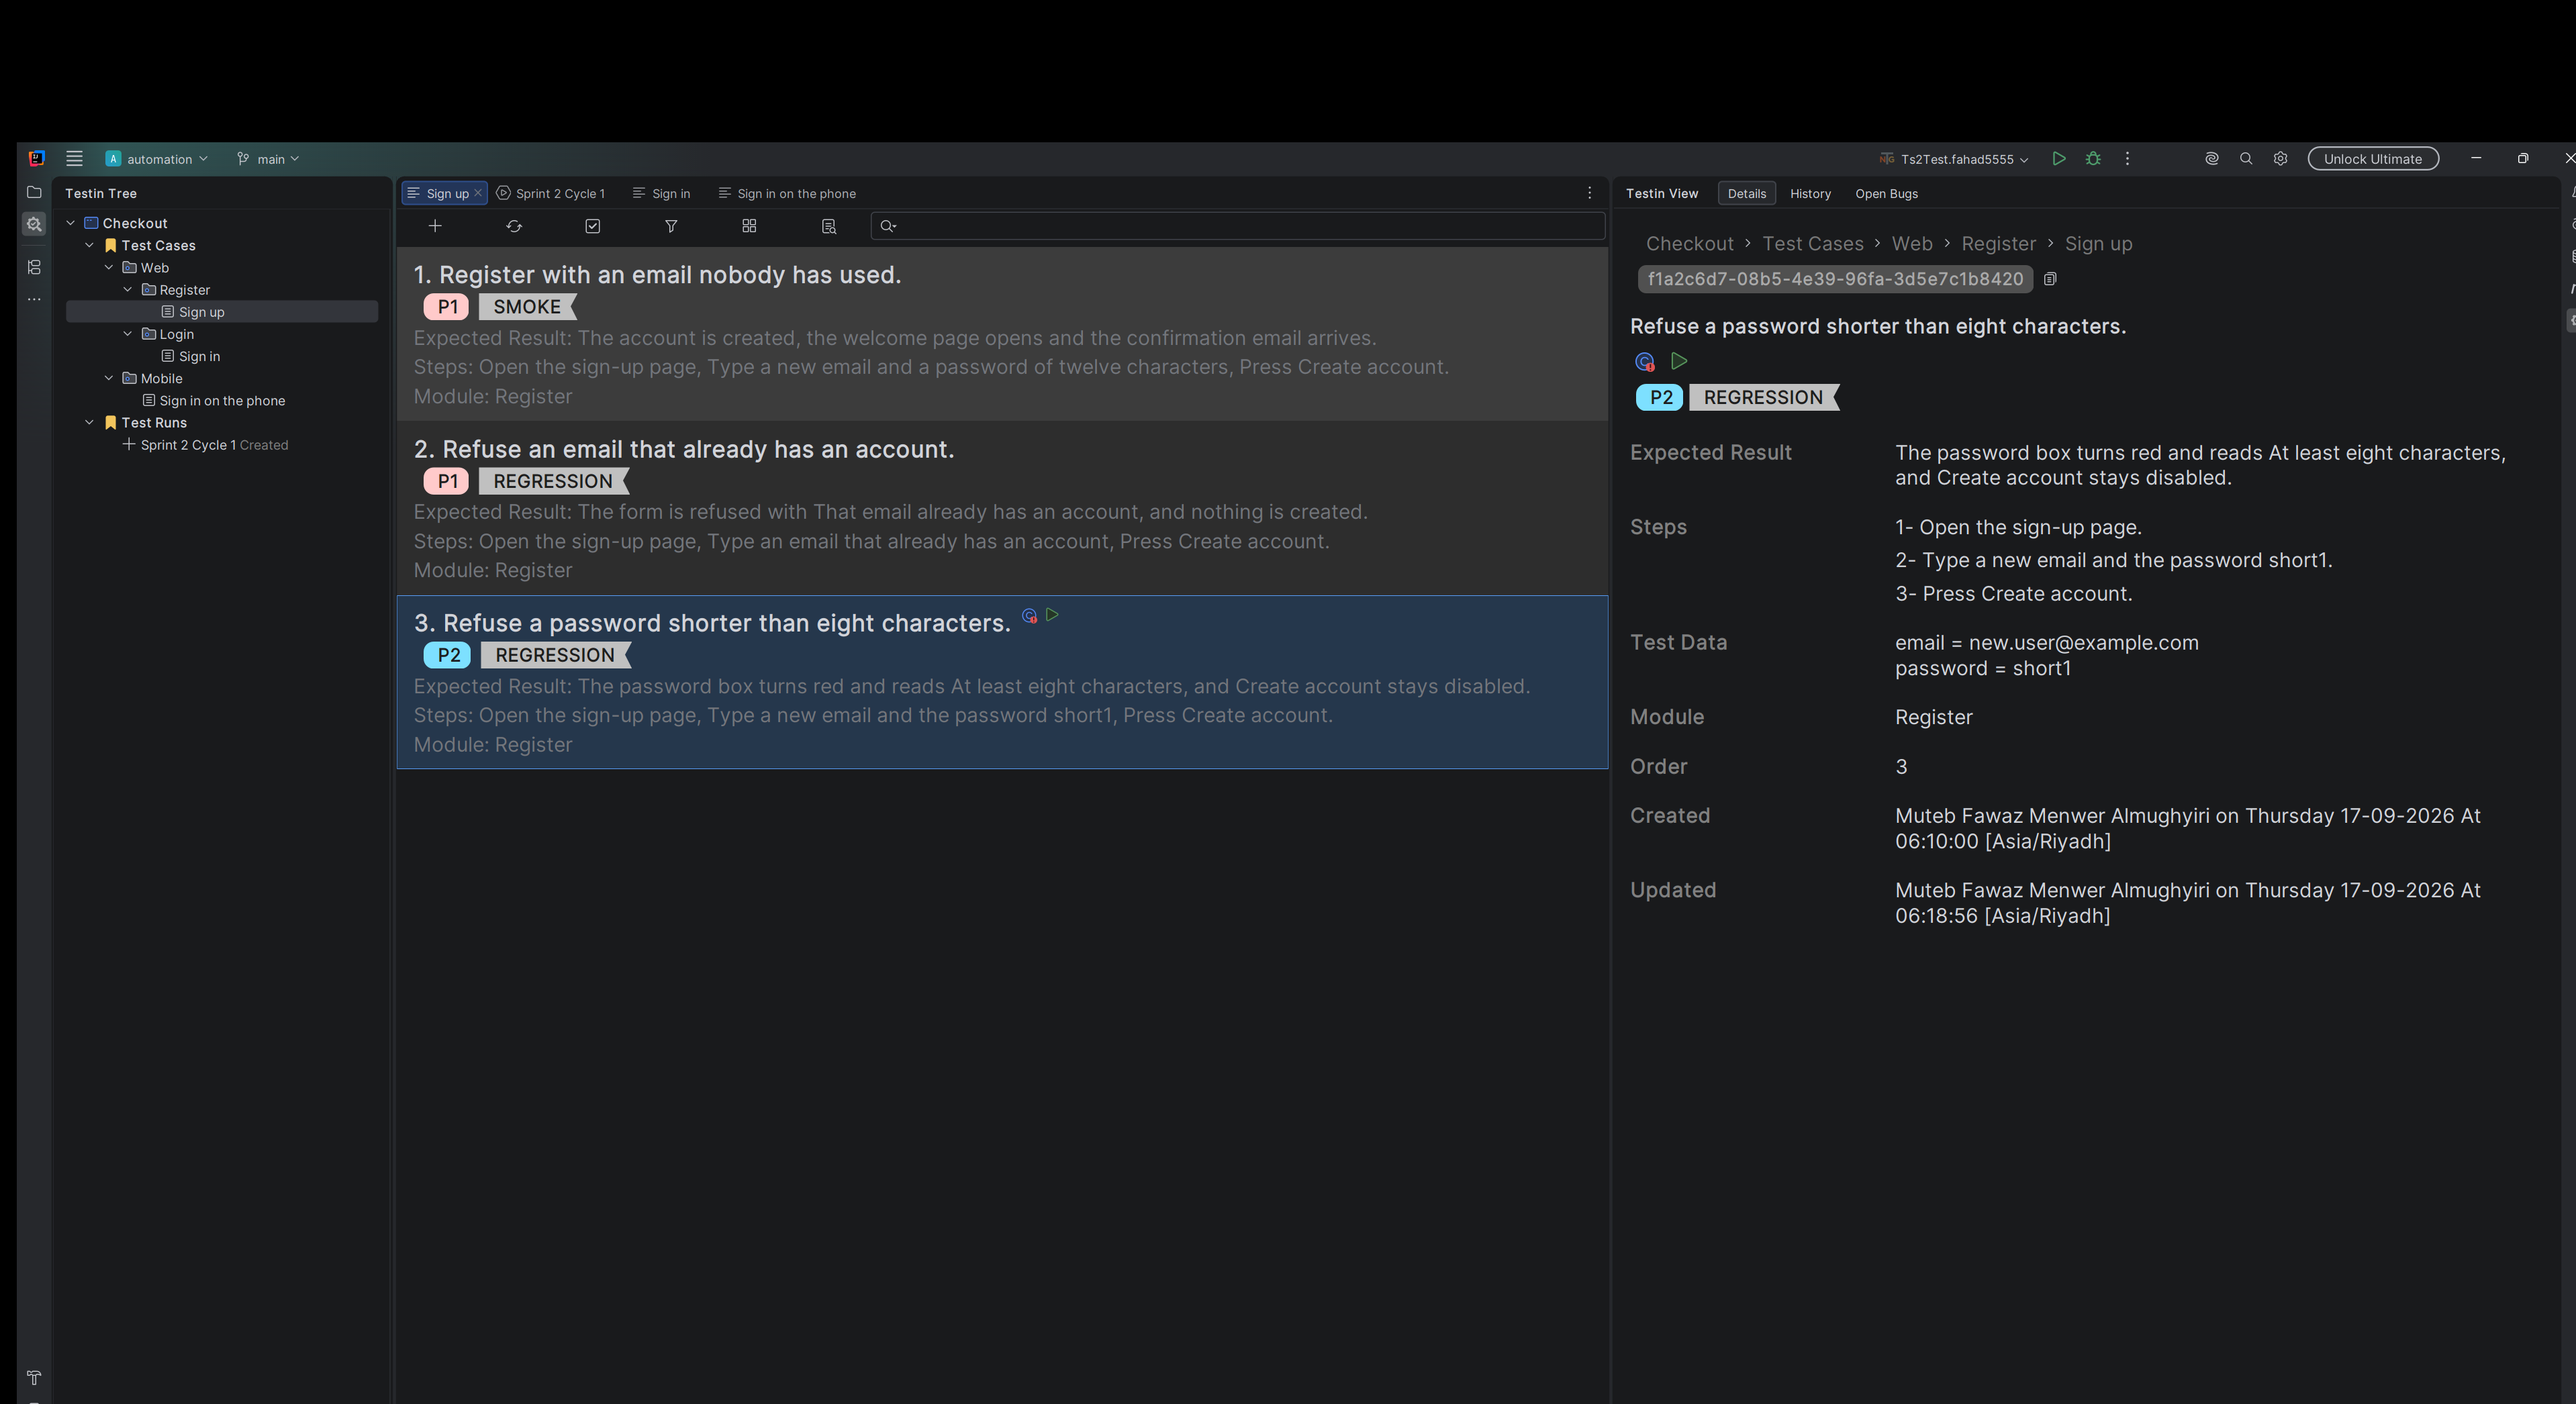
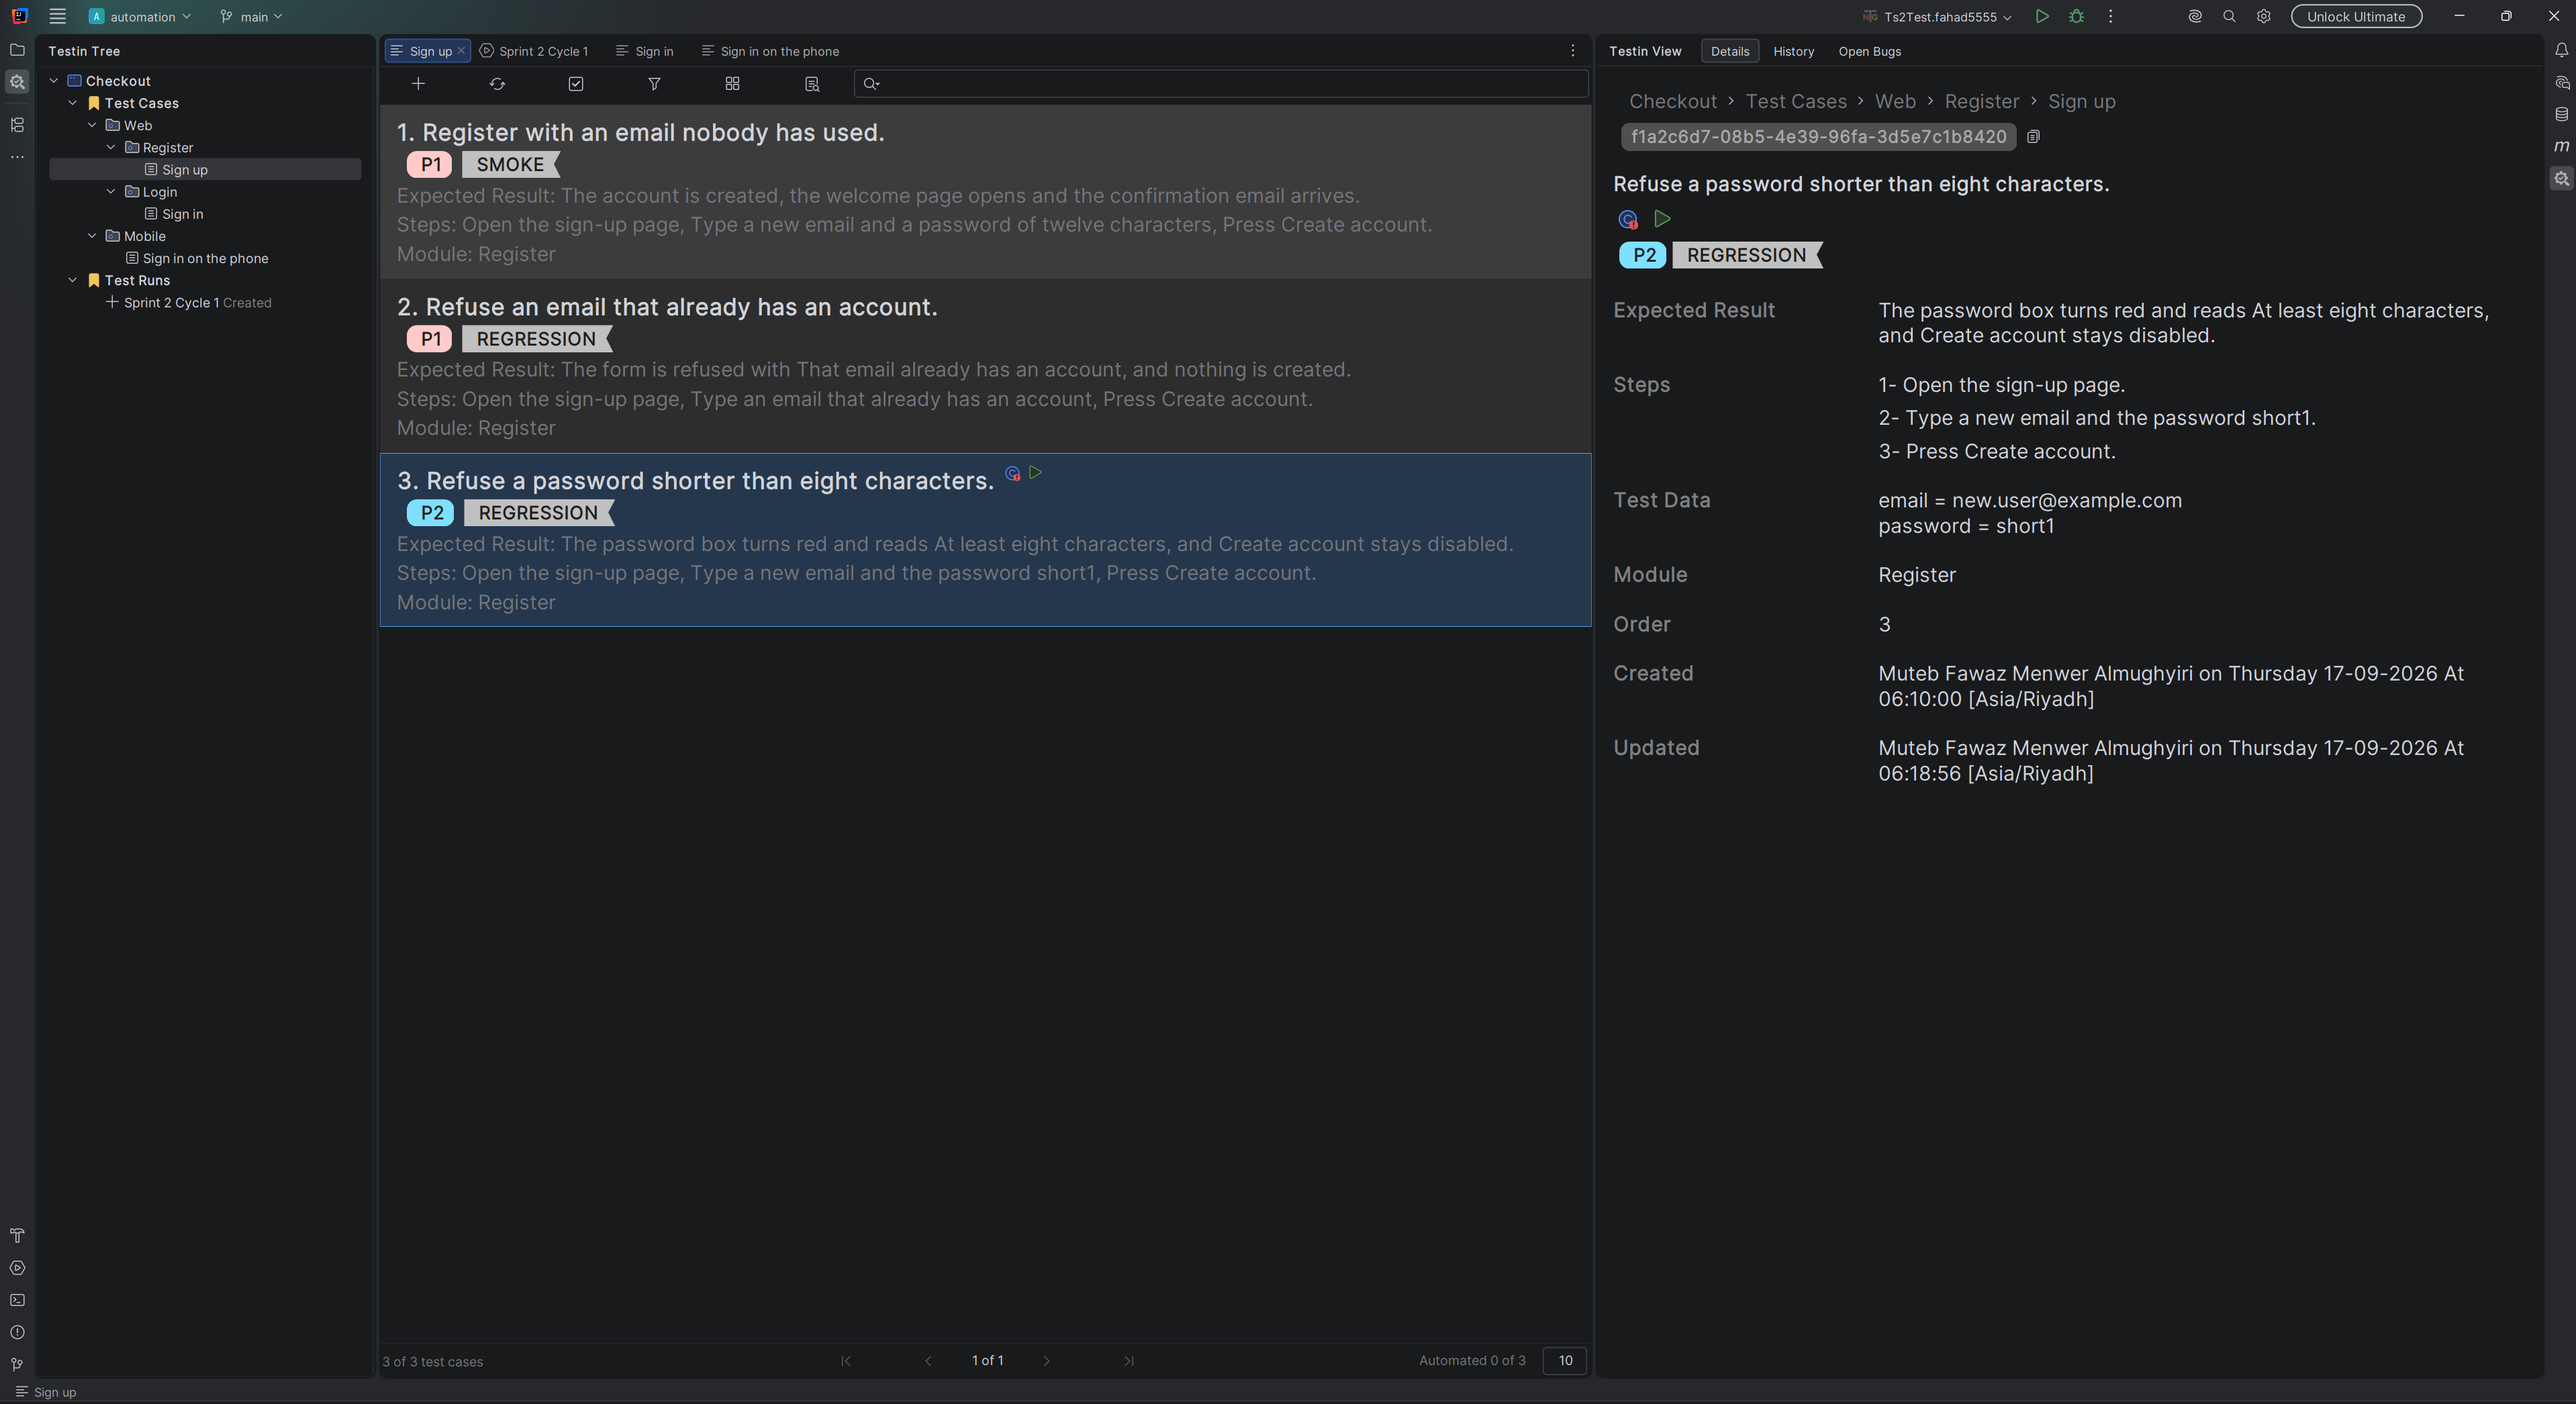
The eleven screenshots, and the article's words match them (#308)
Every picture is in the page, taken from the Checkout demo: the panel beside the generated class, the settings, the editor with its details, the class, the failure form, light mode, Report Bug, the filed issue, the PDF, a test case on disk and the pending changes.

The walkthrough named Sign in and SignInTest.java; the pictures show Sign up and SignUpTest.java, so the text follows the pictures - the code sample is now the method the reader can see in two of them, carrying its own id, groups and priority.

Changed region(s): [[0.0, 0.0, 1.0, 1.0], [0.9924, 0.2175, 1.0, 0.2486], [0.6203, 0.6214, 0.6513, 0.6525]]

diff --git a/docs/medium-intro.html b/docs/medium-intro.html
@@ -7,16 +7,16 @@
 <p>Nothing connects the two. A test case gets reworded in the spreadsheet and the method keeps the old name. A test case is deleted and the method stays in the class for another year. A new case is written and nobody notices there is no method for it. When somebody asks "is this covered?", the honest answer is that you would have to read both lists and compare them by hand.</p>
 <p>There is also the day of it. A test management tool lives in a browser tab, and a browser tab is a mouse. Recording a verdict means opening the run, finding the case, clicking a status, waiting for the page and scrolling back to where you were; saying what actually happened means another dialog and another wait. Fifty cases is a few hundred clicks, and none of it gets faster the tenth time you do it, because there is nothing to learn by hand. Meanwhile the window you left to get there is driven almost entirely by keys.</p>
 <p>The drift is not a discipline problem, and neither is the clicking. Both are what happens when the two artifacts share no identity, no history, no screen and no keyboard.</p>
-<em class="shot">[ picture: shot 1 ]</em>
+<img src="assets/medium/shot-1-panel-beside-code.png" alt="Testin, shot 1" style="max-width:100%;height:auto;border-radius:6px">
 <h2>What Testin is</h2>
 <p>Testin is a JetBrains IDE plugin that puts test case management inside the IDE, next to the automation it drives.</p>
 <p>It adds a tool window with a tree: test projects, test sets, test runs. You write test cases in an editor tab. Testin writes and maintains a TestNG class and one <code>@Test</code> method for every case, tied to it by the case's own identity rather than by its name. You execute a run from the tree, the editor or the gutter, recording a verdict per case, and generate a report at the end.</p>
 <p>Everything it owns is plain files on disk, under a folder you choose. There is no server, no account, and no telemetry.</p>
 <h2>One test case, from written to reported</h2>
-<p>The walkthrough below uses an invented demo: a test project called <code>Checkout</code>, holding a <code>Web</code> and a <code>Mobile</code> package. <code>Web</code> holds <code>Login</code> and <code>Register</code>, and inside <code>Login</code> is a test set called <code>Sign in</code> with four cases.</p>
+<p>The walkthrough below uses an invented demo: a test project called <code>Checkout</code>, holding a <code>Web</code> and a <code>Mobile</code> package. <code>Web</code> holds <code>Login</code> and <code>Register</code>, each with a test set of its own - <code>Sign in</code> and <code>Sign up</code> - and <code>Mobile</code> has one more. The run below, <code>Sprint 2 Cycle 1</code>, covers seven cases from them.</p>
 <h3>Point Testin at a folder</h3>
 <p>Testin keeps its data out of your code repository on purpose: a test case edit should not show up as a diff in the automation project. So the first thing you set, in <strong>Settings → Tools → Testin</strong>, is the Testin folder — any empty folder, which becomes the root every open project reads — and your tester name, which is written into every case and every verdict you record.</p>
-<em class="shot">[ picture: shot 2 ]</em>
+<img src="assets/medium/shot-2-settings.png" alt="Testin, shot 2" style="max-width:100%;height:auto;border-radius:6px">
 <h3>Write a test case</h3>
 <p>Press <strong>New Test Project</strong> at the top of the panel and name it. It gets two fixed folders: <code>Test Cases</code> and <code>Test Runs</code>. Select <code>Test Cases</code>, press <code>Ctrl+M</code> and pick *Test Set* — usually one feature.</p>
 <p>A package holds sets, so <code>Web</code> holds <code>Login</code> and <code>Register</code>; make one the same way and pick *Test Set Package*. Open a set and press <code>Ctrl+M</code> once more to write a case. A case has a description, an expected result, steps, test data, pre-conditions, a module, a priority and groups. You get a card list or a grid view, paging, filtering, search and bulk edits.</p>
@@ -25,43 +25,43 @@
 <h3>Read the Java that Testin wrote</h3>
 <p>Right-click the test set and choose <strong>Generate Code</strong>. Testin writes a TestNG class into the project's test source folder, with one method per case:</p>
 <pre>
-@Test(description = "Refuse a wrong password",
-      testName = "a71c9d34-52be-4a77-9d20-6e1f0b4c73aa",
-      groups = {"REGRESSION"},
-      priority = 2)
-public void refuseAWrongPassword() {
-    // TODO: Auto-generated test steps for refuseAWrongPassword
+@Test(description = "Register with an email nobody has used",
+      testName = "d2571ec8-9a3f-4b16-bf04-8c6e17a5d932",
+      groups = {"SMOKE", "Sanity"},
+      priority = 1)
+public void registerWithAnEmailNobodyHasUsed() {
+    // TODO: Auto-generated test steps for registerWithAnEmailNobodyHasUsed
 }
 </pre>
 <p><code>testName</code> carries the test case's identity. It is how Testin finds the method again, which is why renaming a case renames the method instead of orphaning it. <code>priority</code> is the case's position in its test set, counting from one — TestNG runs methods in that order, so the order you drag cards into is the order the suite executes in. The body is a single comment, and it stays yours: Testin writes the annotation and the declaration and never touches what is inside.</p>
 <p>Remove a case and the method goes with it. The class stays.</p>
-<em class="shot">[ picture: shot 4 ]</em>
+<img src="assets/medium/shot-4-generated-class.png" alt="Testin, shot 4" style="max-width:100%;height:auto;border-radius:6px">
 <p><code>Shift+F5</code> jumps from a card to its method, and the gutter mark beside the method leads back to the case.</p>
 <h3>Execute a run</h3>
 <p>A test run is one round of testing over the sets you pick. Create it under <code>Test Runs</code> and open it. Each case is a card, and three keys record what happened: <code>P</code> for passed, <code>F</code> for failed, <code>B</code> for blocked. The cursor advances on its own, so a clean run is <code>P P P</code> without the mouse.</p>
 <p><code>F</code> is the one verdict that asks first. A form opens for the actual result, a bug severity, a bug priority, and an error box you can paste a screenshot into — the screenshot is kept as a PNG file beside the run, not as text inside it.</p>
-<em class="shot">[ picture: shot 5 ]</em>
+<img src="assets/medium/shot-5-failure-form.png" alt="Testin, shot 5" style="max-width:100%;height:auto;border-radius:6px">
 <p>If you are testing an application rather than running code, light mode is a small always-on-top window showing one case at a time, with the same three keys, so the application under test can have the whole screen.</p>
-<em class="shot">[ picture: shot 6 ]</em>
+<img src="assets/medium/shot-6-light-mode.png" alt="Testin, shot 6" style="max-width:100%;height:auto;border-radius:6px">
 <p>Cases with automation are not judged by hand: <code>F5</code> on a selection runs the generated methods and records the verdict TestNG returned.</p>
 <h3>Report the failure as a bug</h3>
 <p>Open the failed case's details on the right. A <strong>Bug Issue</strong> row offers <strong>Report Bug</strong>.</p>
 <p>Testin writes the issue from what the run already knows — the description becomes the title; severity, priority, platform, actual result, expected result, numbered steps, test data, the folded exception, the screenshots, who executed it and when, and a link to the test case's own file. Anything it cannot get reads <code>n\a</code> rather than being invented.</p>
-<em class="shot">[ picture: shot 7 ]</em>
+<img src="assets/medium/shot-7-report-bug-dialog.png" alt="Testin, shot 7" style="max-width:100%;height:auto;border-radius:6px">
 <p>You read it, edit it if you want, and press <strong>Send</strong>. It is filed through the GitHub CLI, <code>gh</code>, into the repository named in <code>testin.yml</code>. Testin stores no password and no token; <code>gh</code> holds the sign-in. If anything is missing — no repository configured, <code>gh</code> not installed, not signed in, title too long — <strong>Send</strong> is disabled and hovering over it says which.</p>
 <p>Afterwards the row shows the issue as <code>owner/repo#123</code> and links to it. So does the report.</p>
-<em class="shot">[ picture: shot 8 ]</em>
+<img src="assets/medium/shot-8-github-issue.png" alt="Testin, shot 8" style="max-width:100%;height:auto;border-radius:6px">
 <h3>Send the result to someone with no IDE</h3>
 <p>Select the run and press <code>Ctrl+P</code>. Four formats: PDF to attach to a ticket, Word to edit first, HTML for a browser, Excel to filter.</p>
 <p>The document holds the run's overview, an execution summary with the totals and the pass rate, whatever result analysis you wrote, and one table per verdict. The failed table also carries the bug severity and priority, the actual result, and the issue the failure was reported as.</p>
-<em class="shot">[ picture: shot 9 ]</em>
+<img src="assets/medium/shot-9-report-pdf.png" alt="Testin, shot 9" style="max-width:100%;height:auto;border-radius:6px">
 <h2>What is on disk</h2>
 <p>A test project is a folder. A folder is a test set because it contains a file called <code>.ts</code>, and a test run because it contains <code>.tr</code> — markers whose whole name is the extension. Inside a test set, every test case is one JSON file named by its id. A run is a <code>run.json</code> beside its marker, holding one result per case: status, duration, who executed it and when, the actual result, the exception, the screenshot names and the bug issue link.</p>
 <p>The files are UTF-8 and pretty-printed, and the values are byte-identical to what you typed. Testin capitalizes a description and closes it with a period when it draws it, and stores neither. That is the part that makes Git useful here: a diff shows the field you changed and nothing else.</p>
-<em class="shot">[ picture: shot 10 ]</em>
+<img src="assets/medium/shot-10-test-case-json.png" alt="Testin, shot 10" style="max-width:100%;height:auto;border-radius:6px">
 <p>One file does live in the code repository, and it is the only one committed there: <code>testin.yml</code>, which names the test project this repository drives and, optionally, the repository bugs are filed in. No machine name, no person and no password is in it.</p>
 <p>Because the test data is its own Git repository, you can put it under review: commit, push, pull and resolve conflicts from inside the panel, with a diff of what changed in each case.</p>
-<em class="shot">[ picture: shot 11 ]</em>
+<img src="assets/medium/shot-11-git-changes.png" alt="Testin, shot 11" style="max-width:100%;height:auto;border-radius:6px">
 <p>On privacy, the short version: test cases, steps and JSON files stay on your disk or in your own version control. The plugin embeds no tracking, analytics or telemetry, and does not upload source, test data, environment variables or credentials anywhere. The one time data leaves your machine is when you press <strong>Send</strong> on a bug report, and it goes to your repository through your own <code>gh</code> sign-in.</p>
 <h2>Who it is for, and what it is not</h2>
 <p>It is for a QA engineer who writes test cases and automates them in a JetBrains IDE, and for the mixed teams where the same person does both. Manual testing is the first half of the loop, not an afterthought: you can run a whole cycle in light mode without writing a line of Java.</p>
